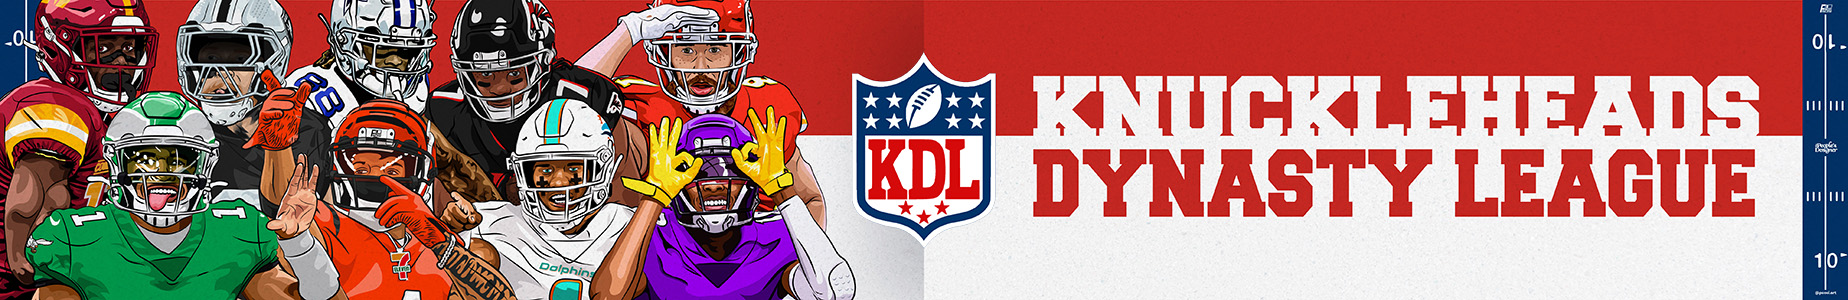
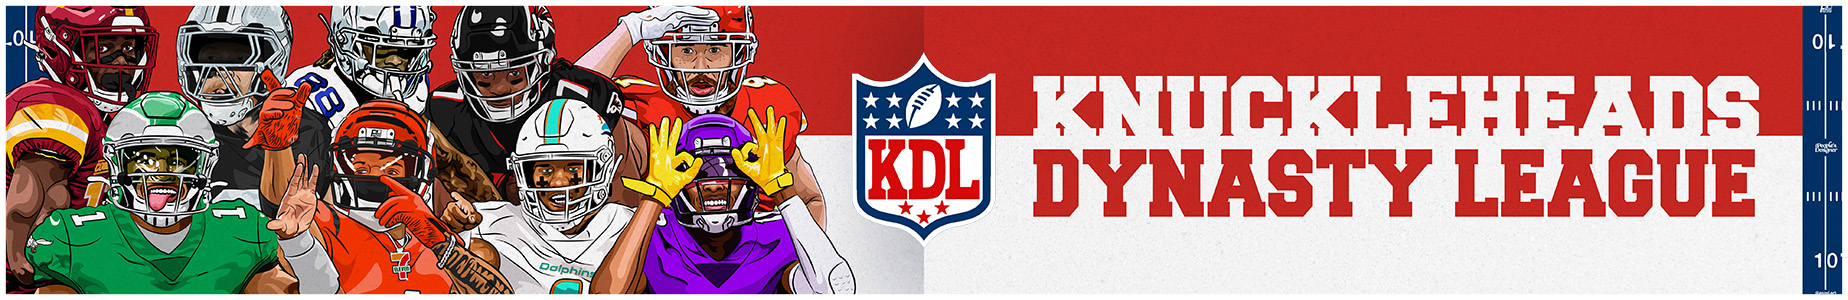
Update Images

Changed region(s): [[0.0, 0.0, 1.0, 1.0]]

diff --git a/public/styles/light-new.css b/public/styles/light-new.css
@@ -2198,9 +2198,10 @@ a:visited:hover {
 /*CGT - added border around league banner with below settings*/
 a:link img,
 A:visited img {
-  border-color: var(--lightest-color, blue); /*CGT - was transparent*/
-  border: 0.5rem outset; /*added*/
-  border-radius: 0.15rem; /*added*/
+  border-color: transparent;
+  /*border-color: var(--lightest-color, blue); /*CGT - was transparent*/
+  /*border: 0.5rem outset; /*added*/
+  /*border-radius: 0.15rem; /*added*/
 }
 
 a:hover img {
